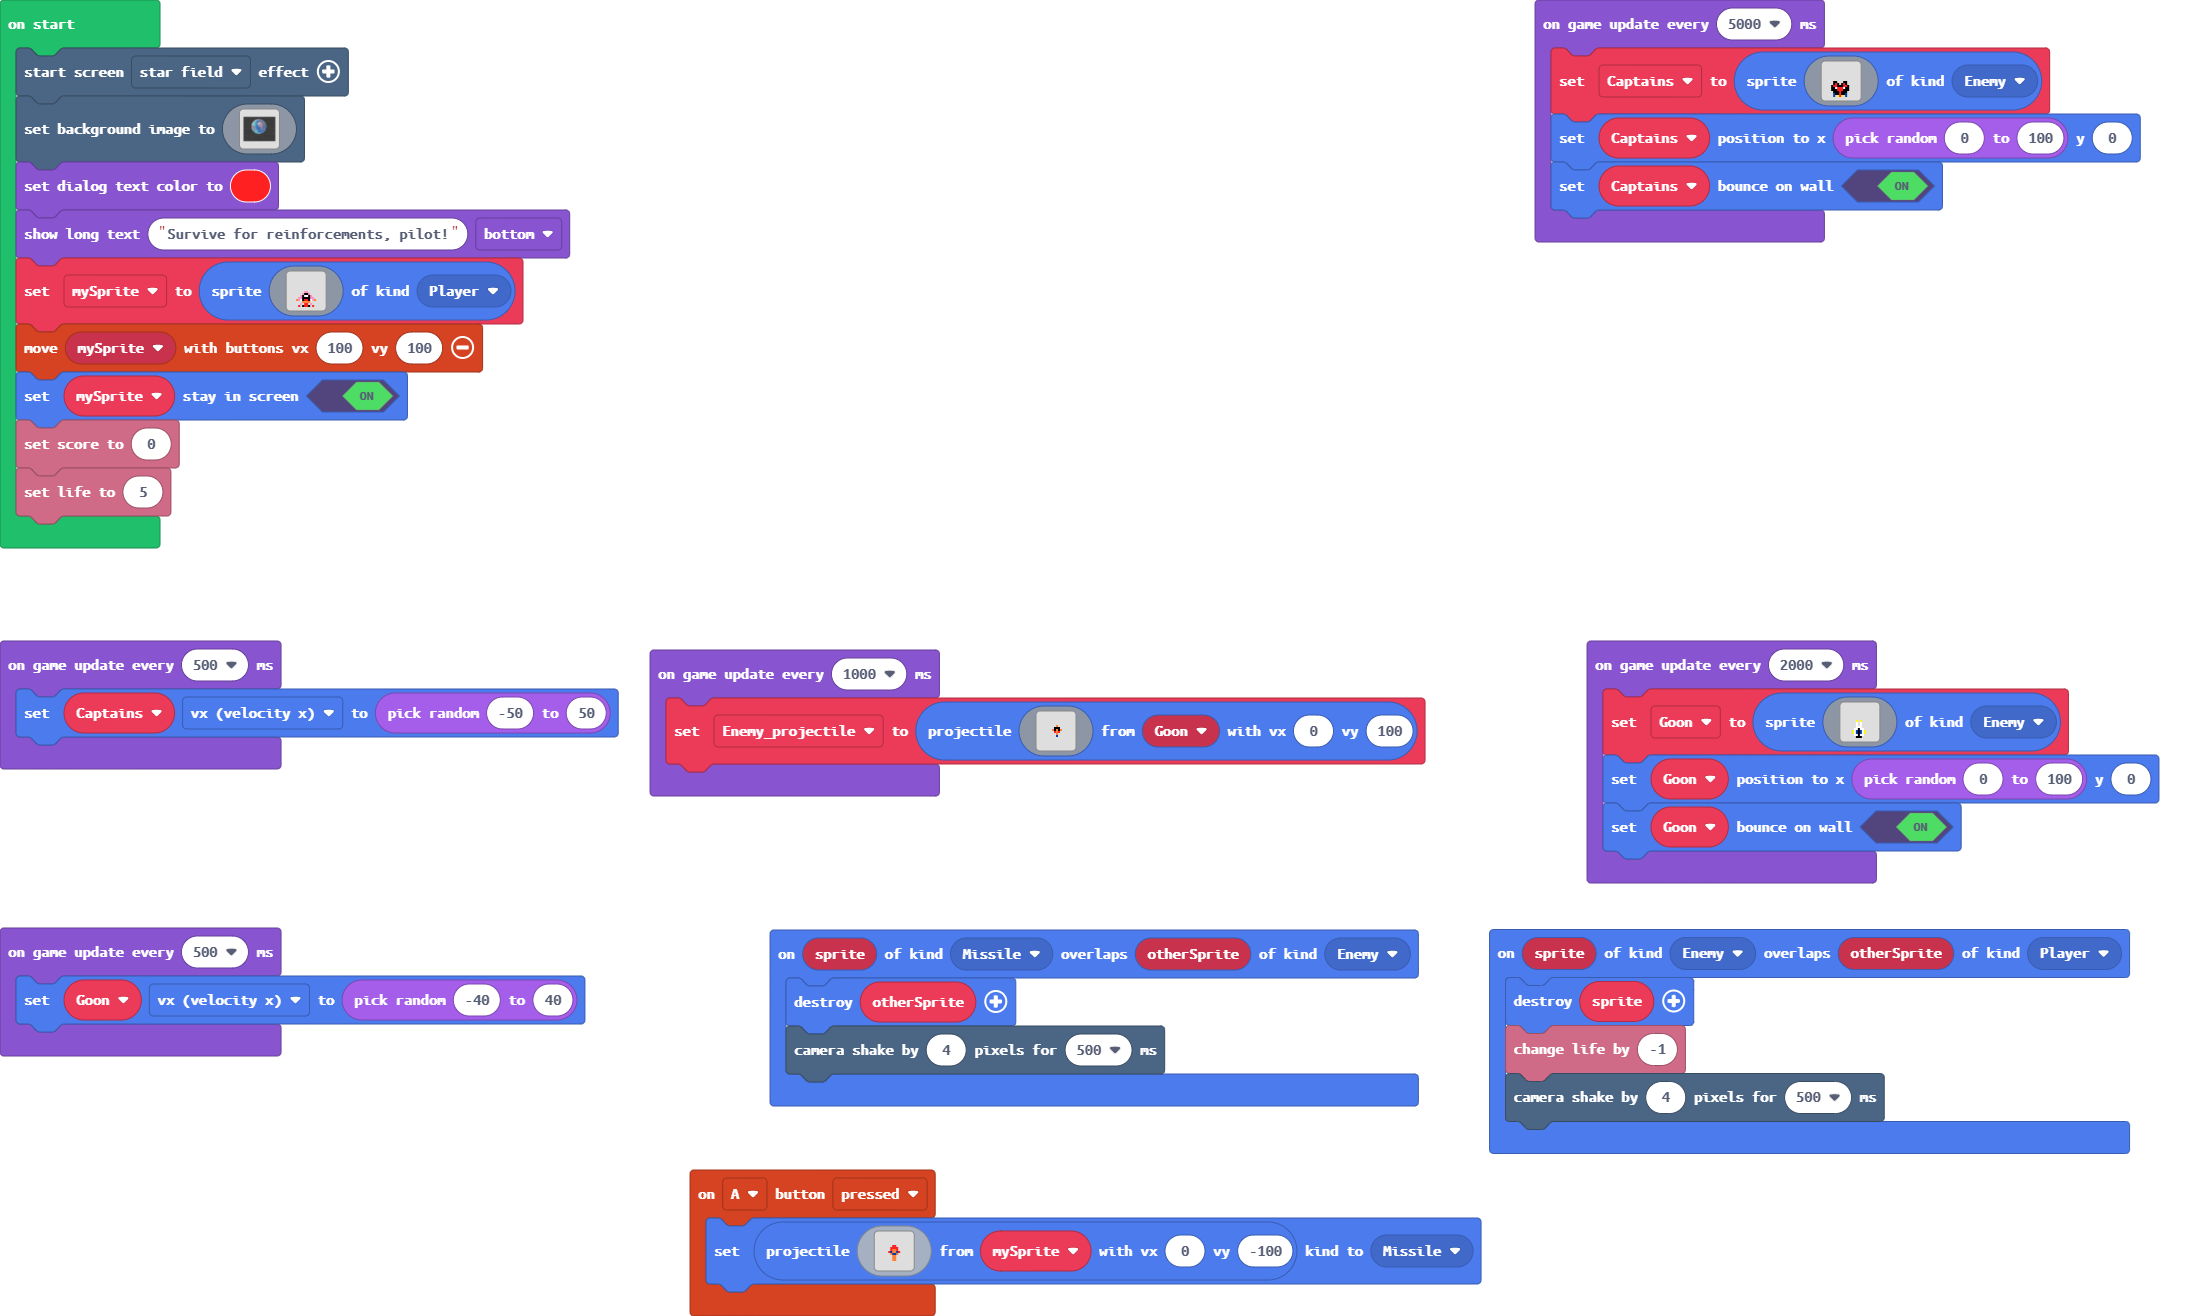
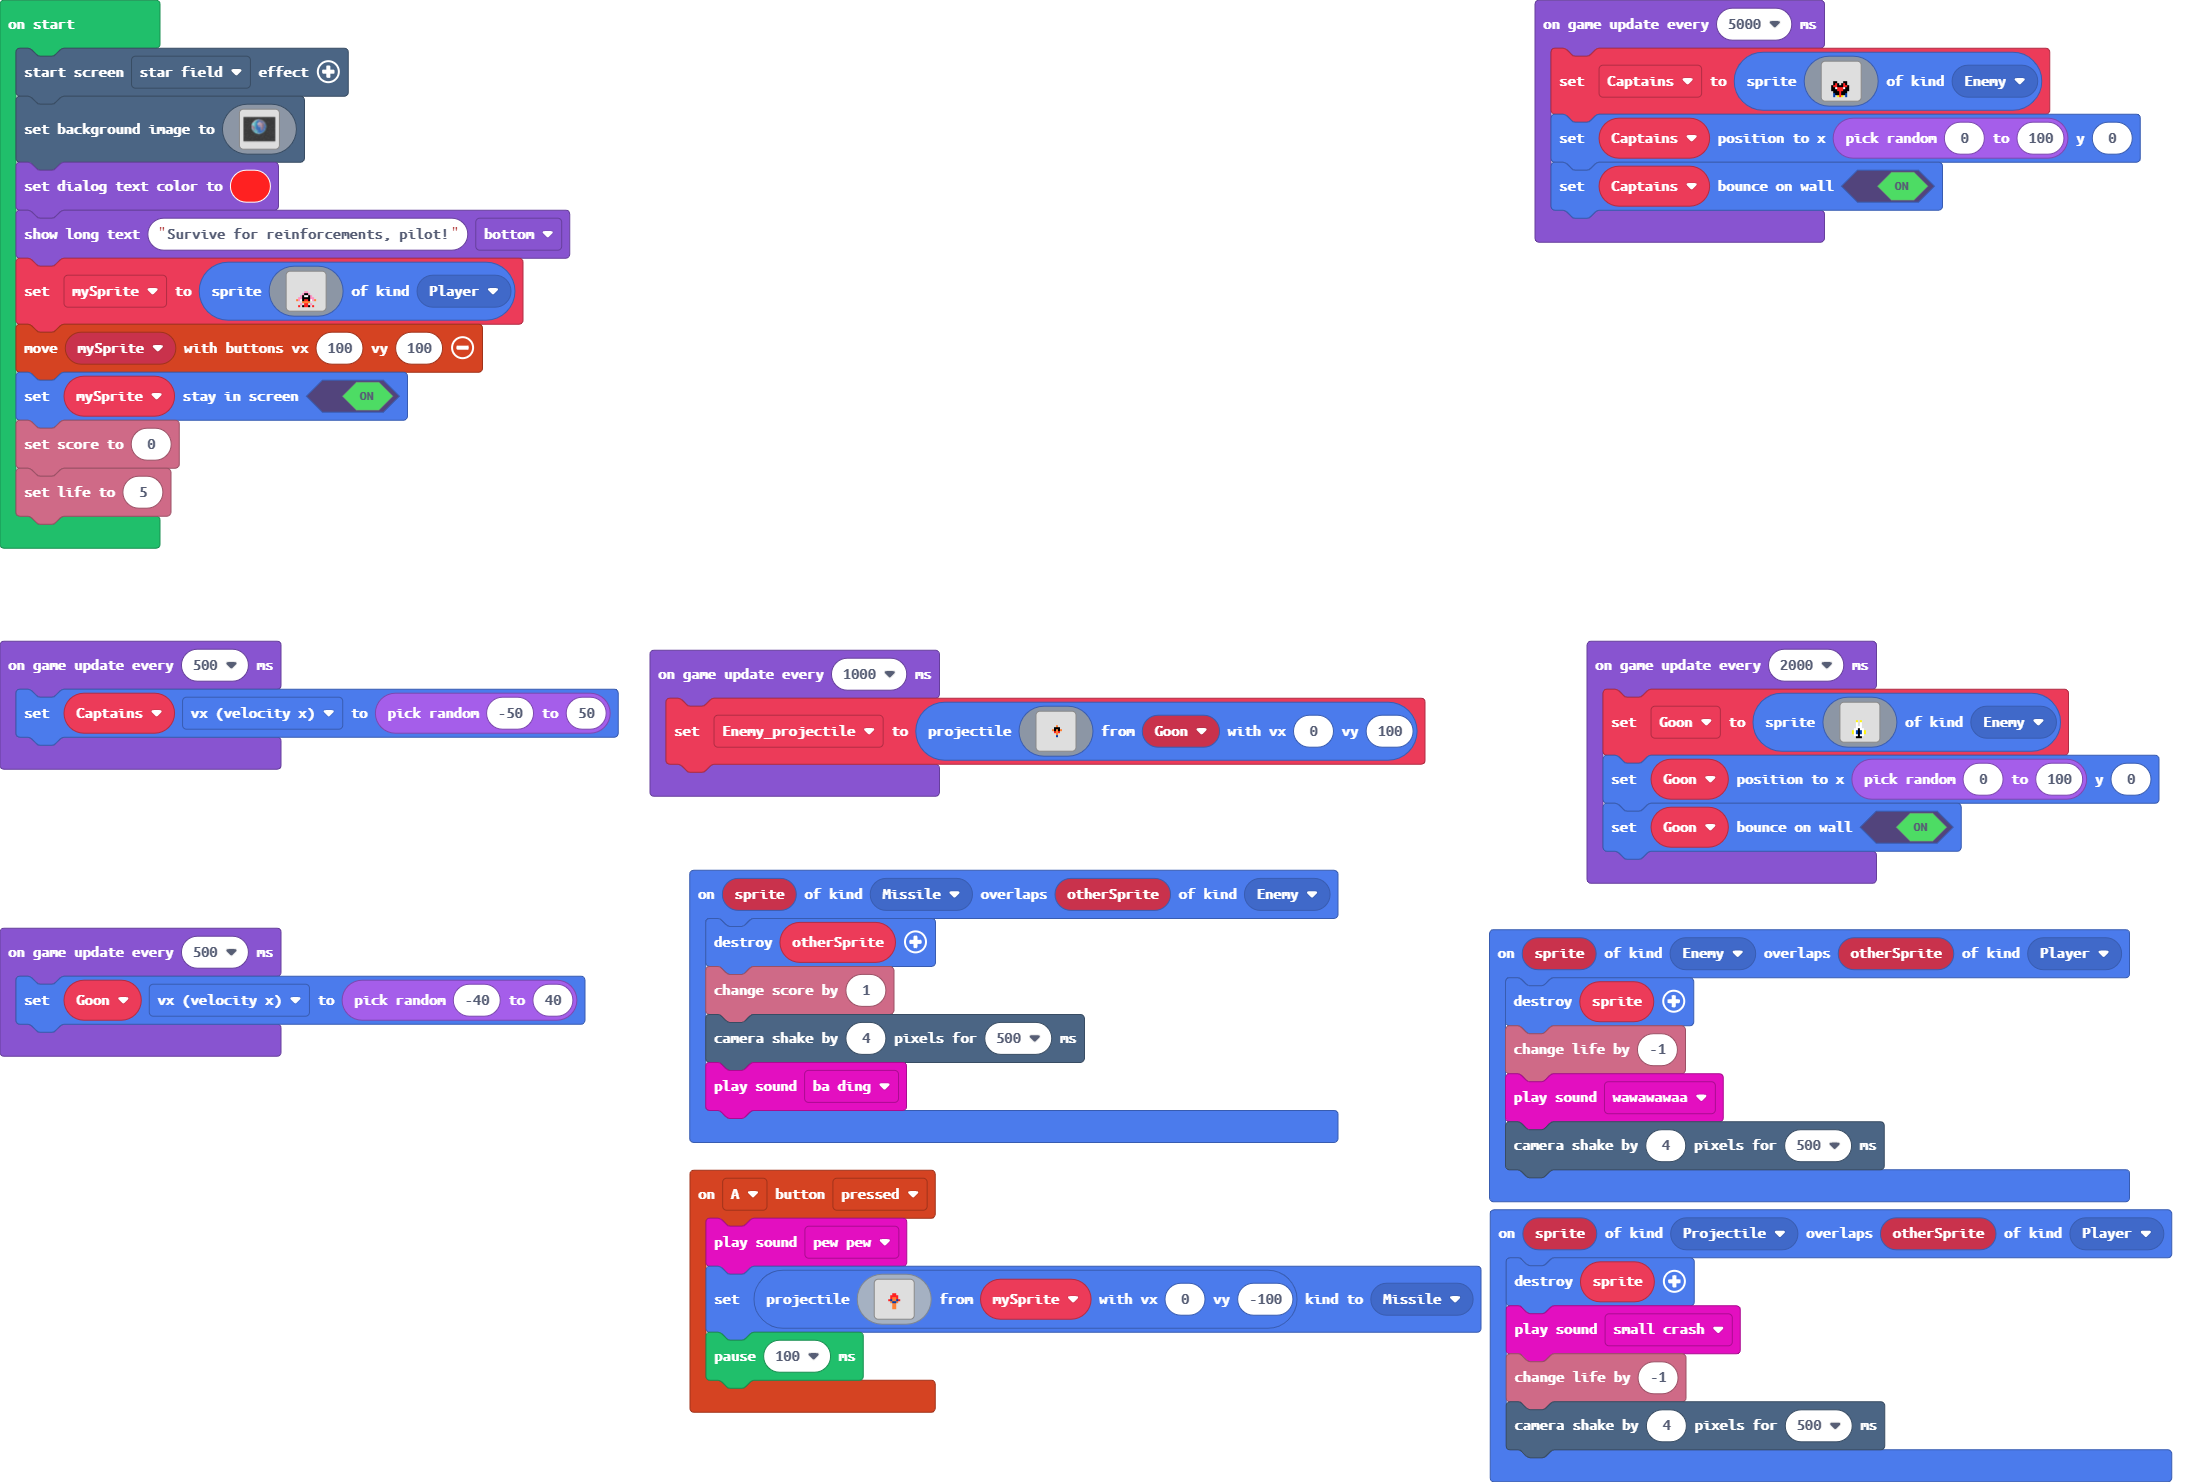
Update main.blocks, main.ts

diff --git a/main.ts b/main.ts
@@ -3,6 +3,7 @@ namespace SpriteKind {
     export const Missile = SpriteKind.create()
 }
 controller.A.onEvent(ControllerButtonEvent.Pressed, function () {
+    music.pewPew.play()
     sprites.createProjectileFromSprite(img`
         . . . . . . . . . . . . . . . . 
         . . . . . . . . . . . . . . . . 
@@ -21,15 +22,25 @@ controller.A.onEvent(ControllerButtonEvent.Pressed, function () {
         . . . . . . . . . . . . . . . . 
         . . . . . . . . . . . . . . . . 
         `, mySprite, 0, -100).setKind(SpriteKind.Missile)
+    pause(100)
+})
+sprites.onOverlap(SpriteKind.Projectile, SpriteKind.Player, function (sprite, otherSprite) {
+    sprite.destroy()
+    music.smallCrash.play()
+    info.changeLifeBy(-1)
+    scene.cameraShake(4, 500)
 })
 sprites.onOverlap(SpriteKind.Enemy, SpriteKind.Player, function (sprite, otherSprite) {
     sprite.destroy()
     info.changeLifeBy(-1)
+    music.wawawawaa.play()
     scene.cameraShake(4, 500)
 })
 sprites.onOverlap(SpriteKind.Missile, SpriteKind.Enemy, function (sprite, otherSprite) {
     otherSprite.destroy()
+    info.changeScoreBy(1)
     scene.cameraShake(4, 500)
+    music.baDing.play()
 })
 let Enemy_projectile: Sprite = null
 let Goon: Sprite = null
